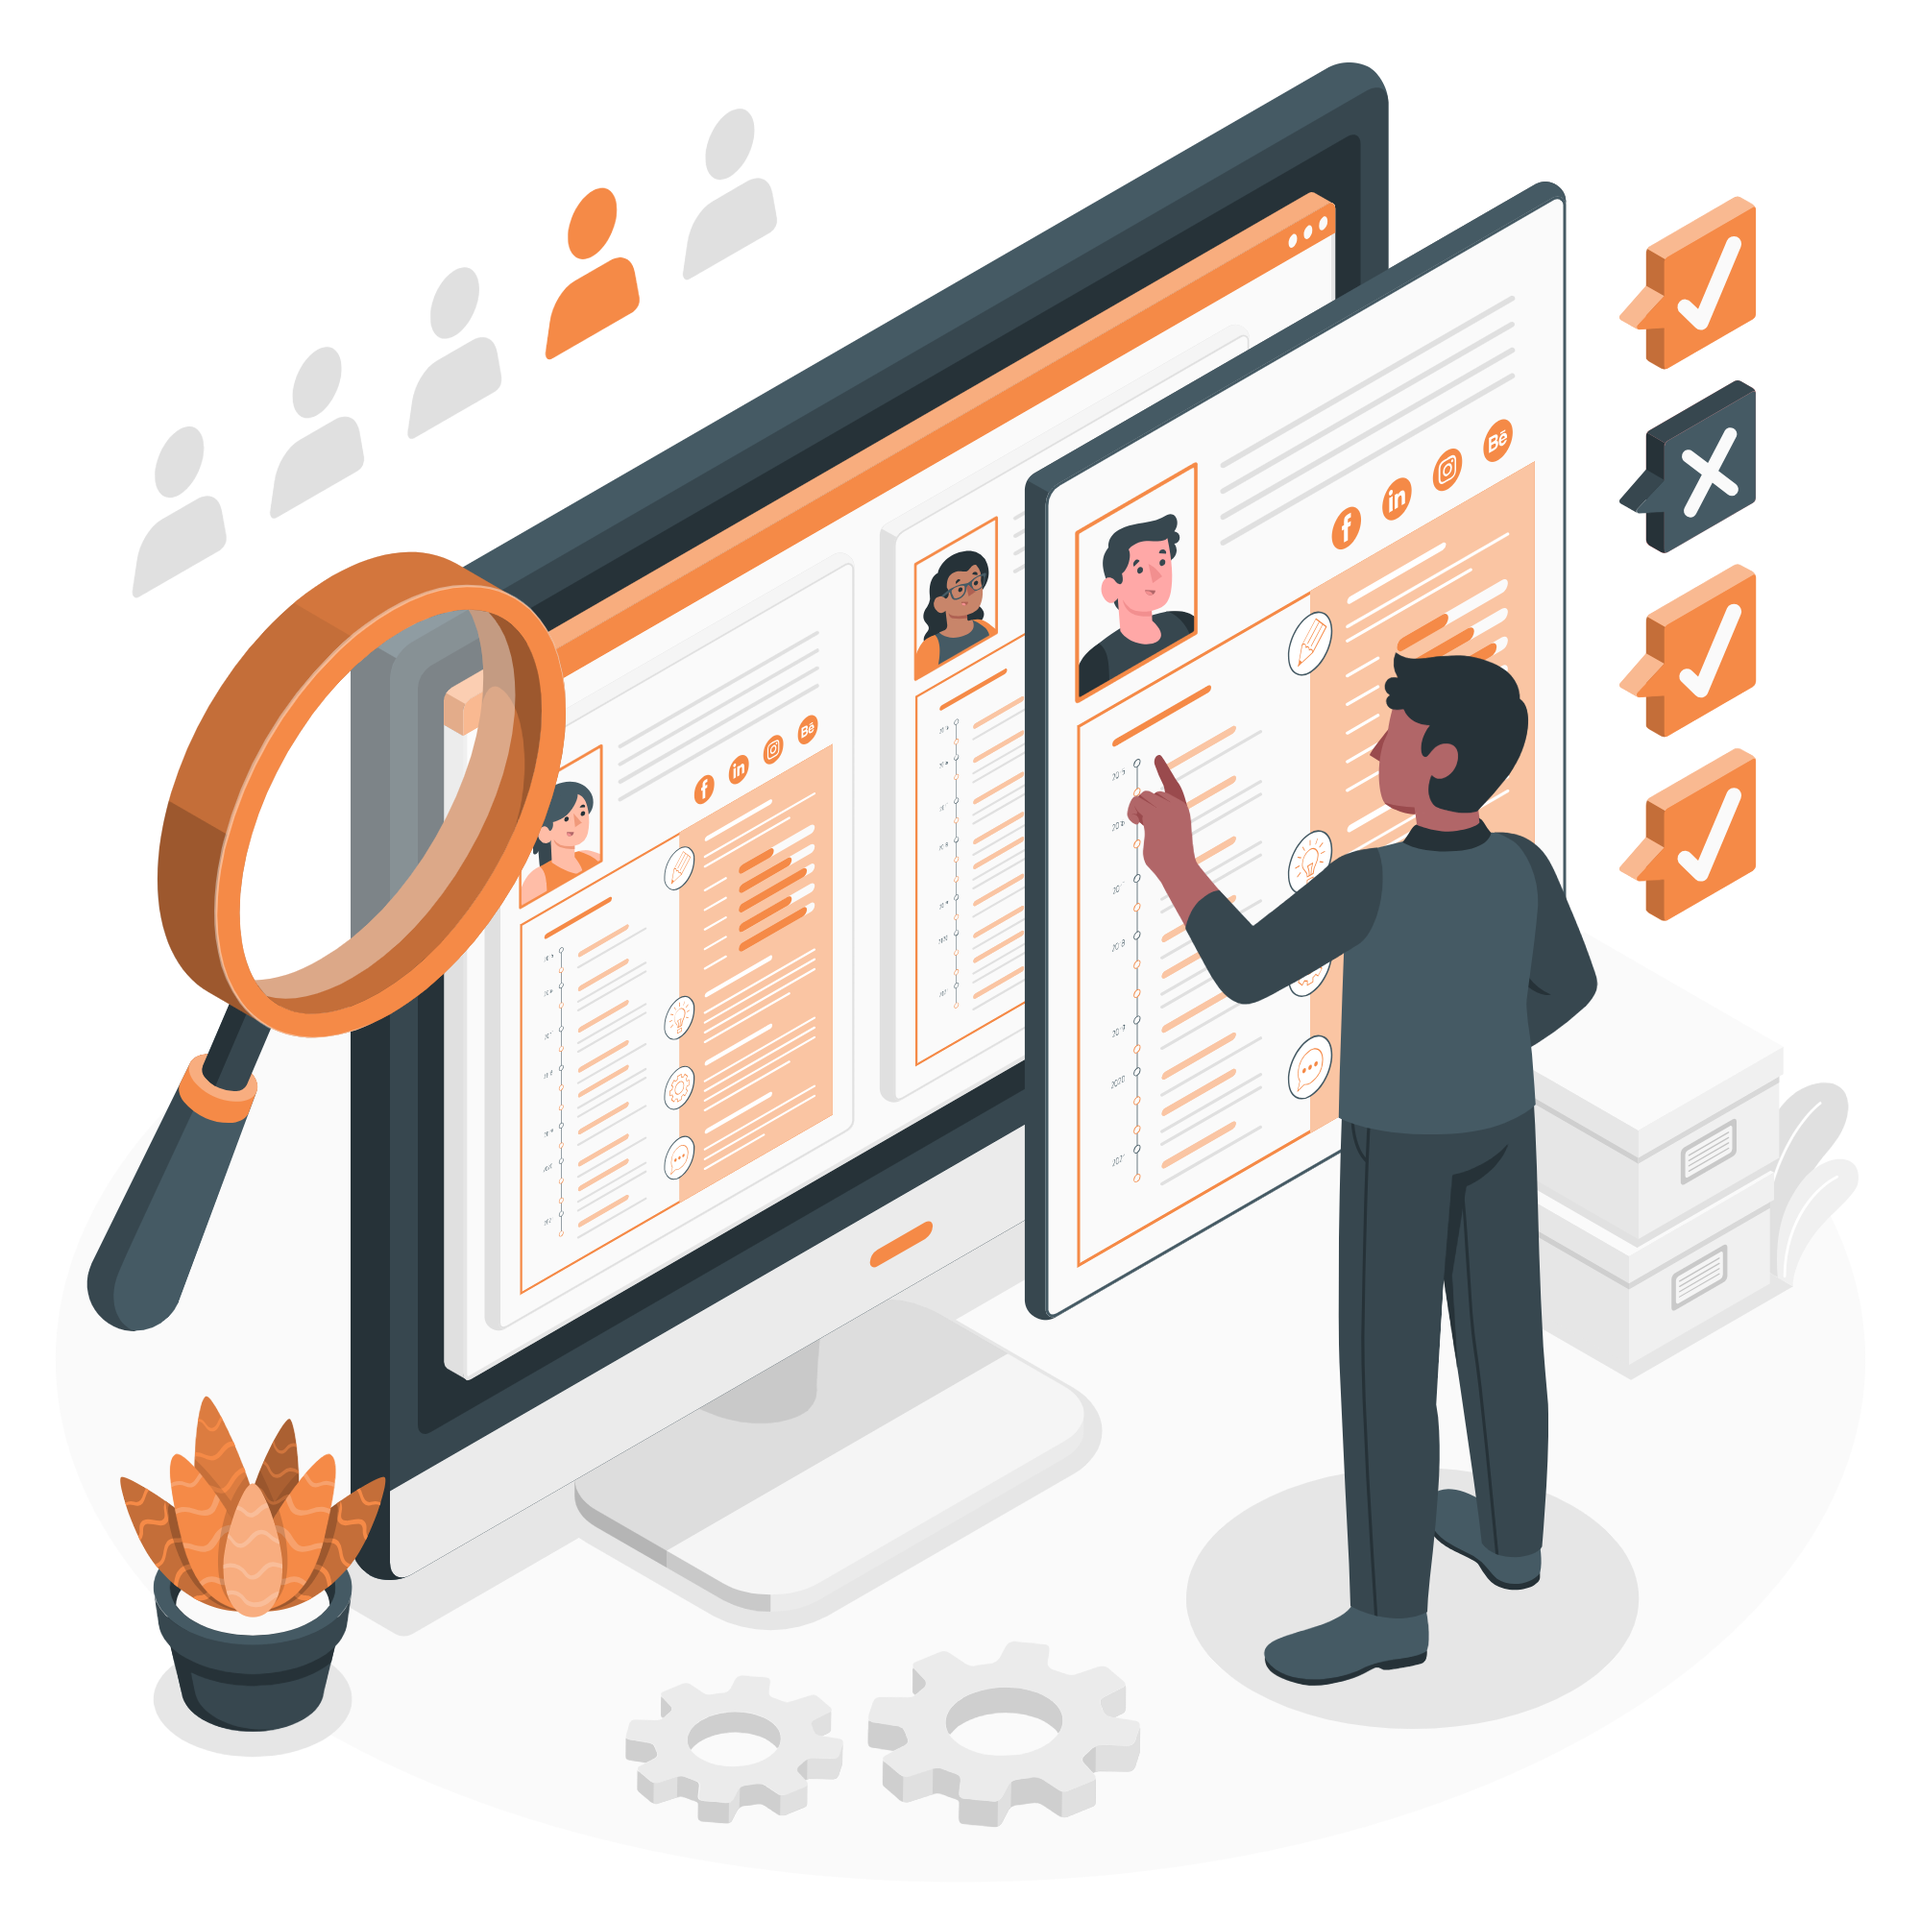
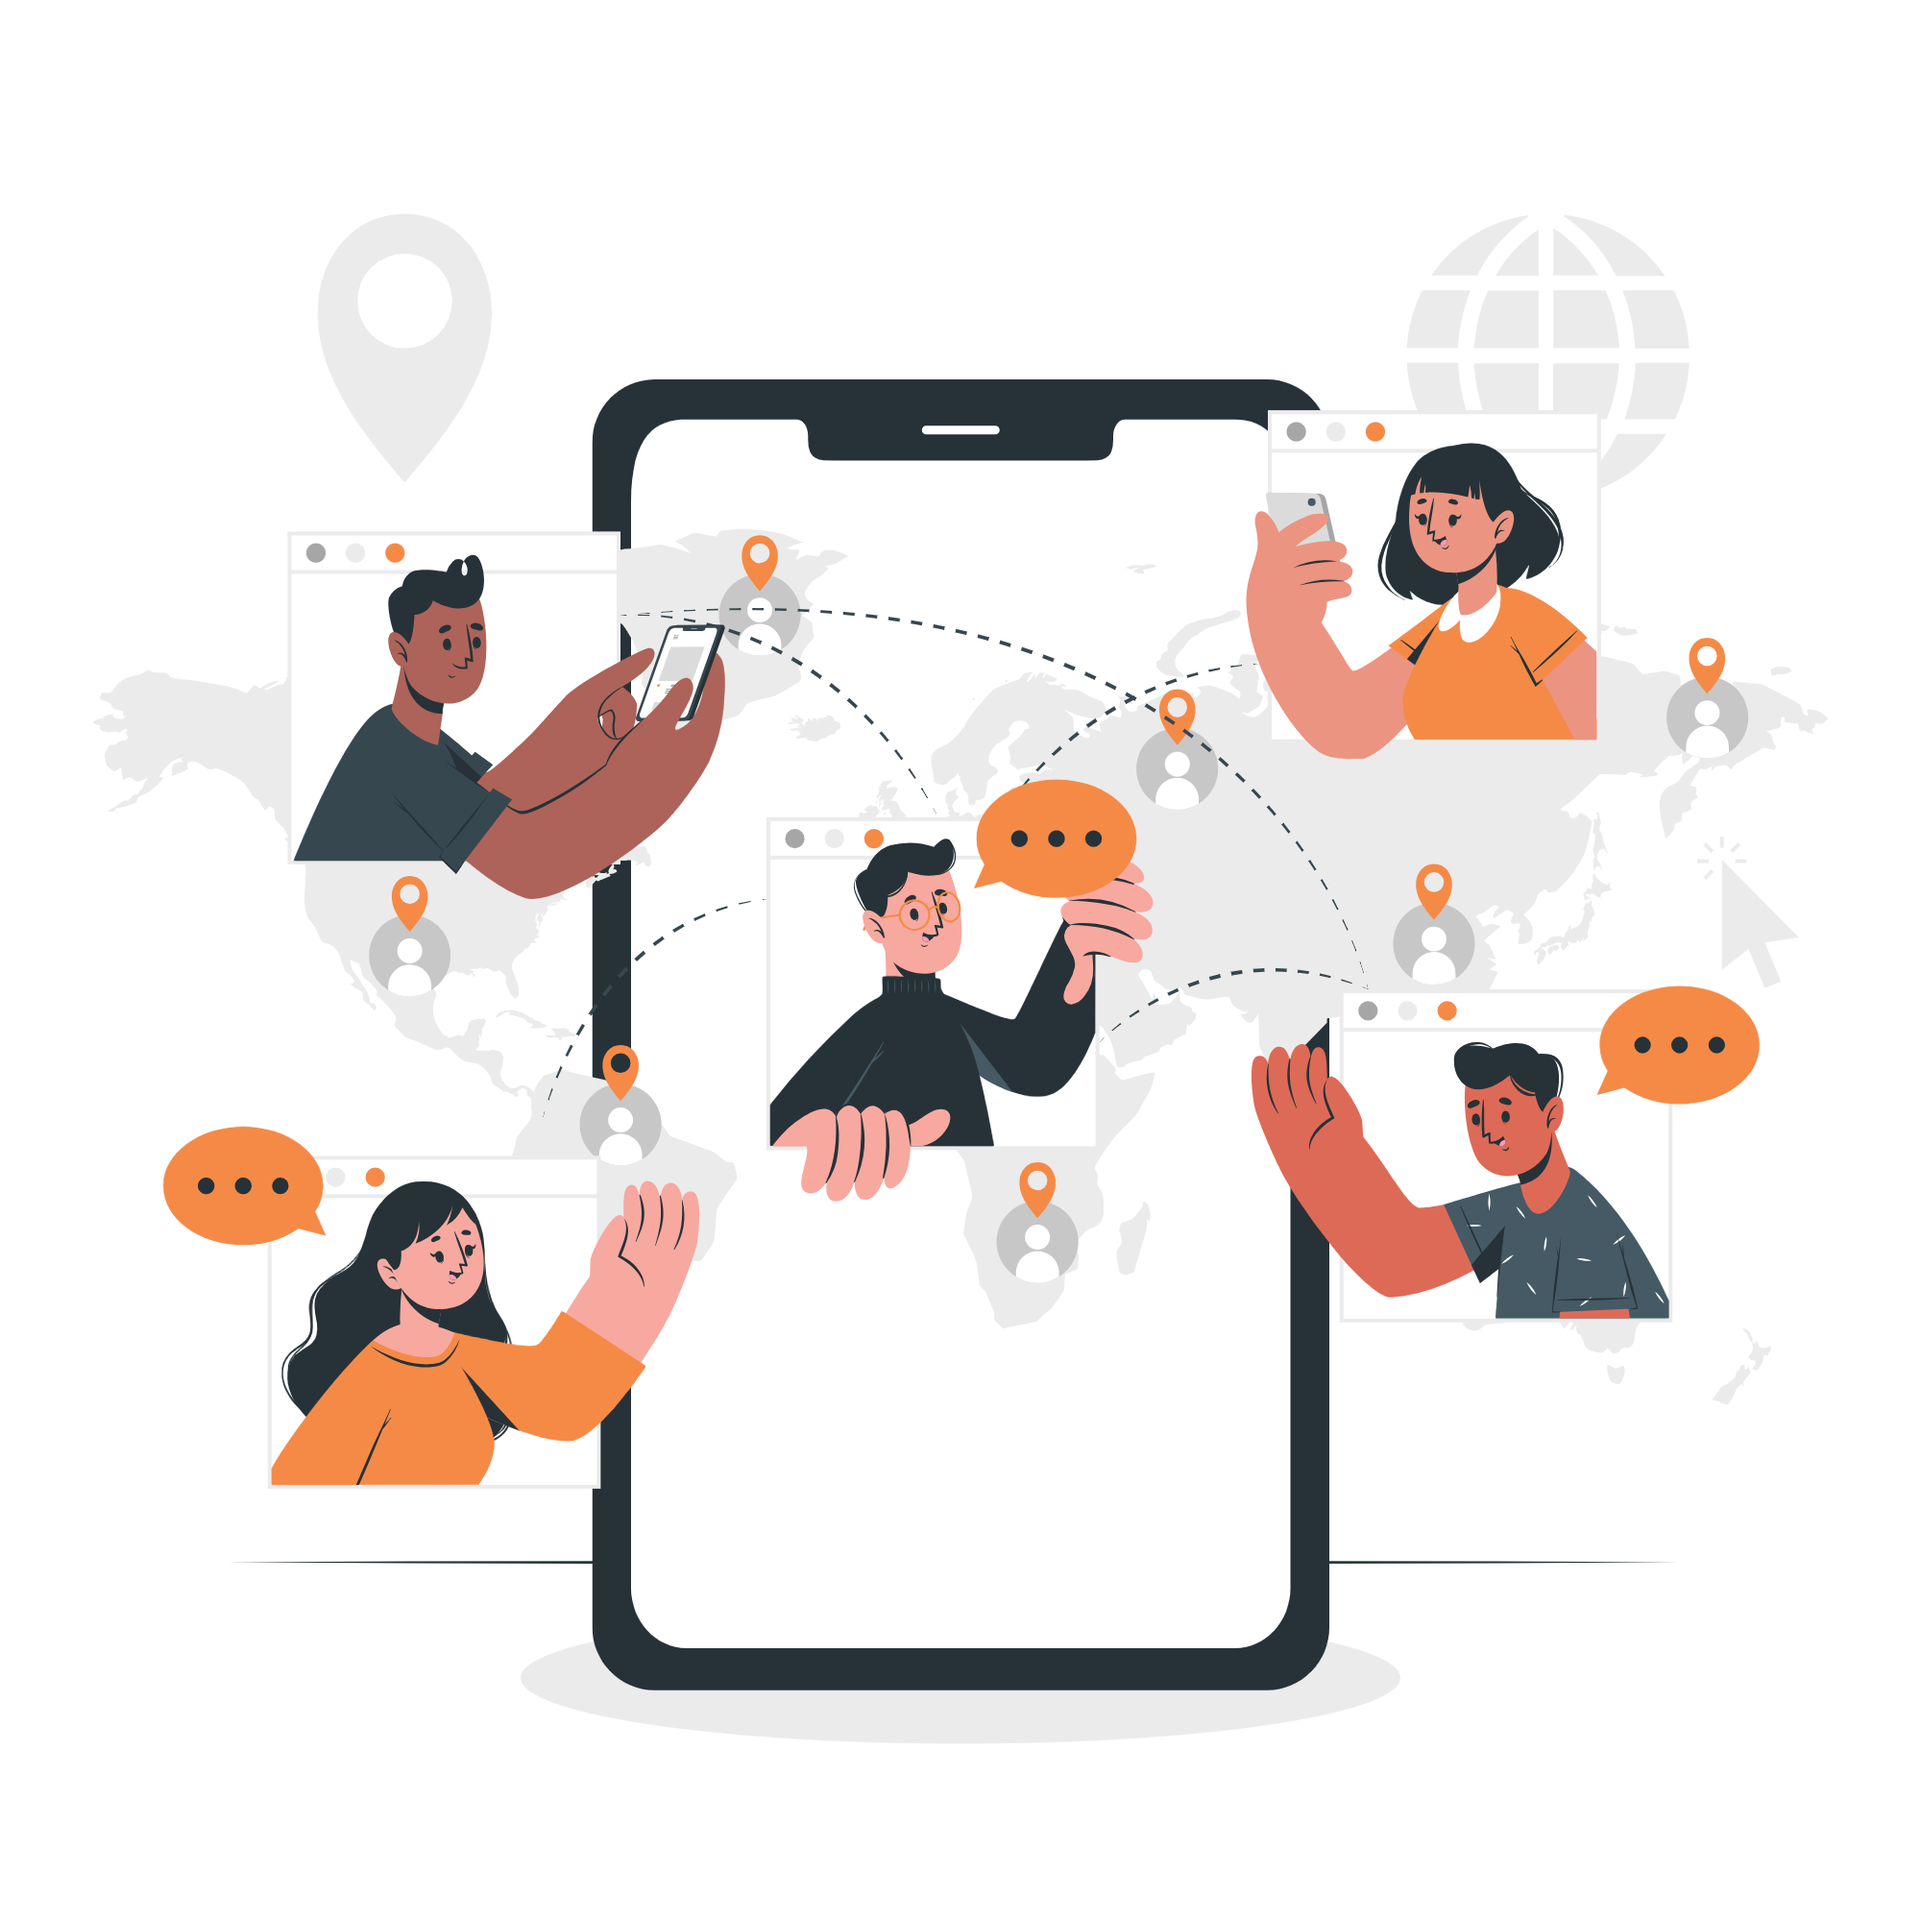
added modificaions

diff --git a/src/components/ExploreOurServices/ExploreOurServices.tsx b/src/components/ExploreOurServices/ExploreOurServices.tsx
@@ -17,7 +17,7 @@ const ExploreOurServices = () => {
         display: "flex",
         flexDirection: { xs: "column", lg: "row" },
         gap: "40px",
-        alignItems: "center",
+        alignItems: "flex-start",
         justifyContent: "center",
         padding: "80px 20px",
         flexWrap: "wrap",
@@ -26,23 +26,24 @@ const ExploreOurServices = () => {
       <Card
         sx={{
           order: { xs: 1, lg: 2 },
-          height: { xs: "250px", lg: "370px" },
           backgroundColor: "transparent",
           boxShadow: "none",
           border: "none",
           borderRadius: 0,
-          width: { lg: "600px" },
+          width: {lg: "calc((510/1200) * 100%)"},
           display: "flex",
           flexDirection: "column",
-          gap: "24px",
+          rowGap: "18px",
+          alignItems: {xs: "center", lg: "flex-start"}
         }}
       >
         <CardContent
           sx={{
             display: "flex",
             flexDirection: "column",
-            gap: "24px",
-            alignItems: "center",
+            justifyContent: "flex-start",
+            rowGap: "18px",
+            alignItems: "flex-start",
             padding: "0",
             margin: { lg: "auto 0 0 0" },
           }}
@@ -56,7 +57,10 @@ const ExploreOurServices = () => {
           <Typography
             variant="body2"
             color="primary.main"
-            sx={{ textAlign: { xs: "center", lg: "left" } }}
+            sx={{ 
+              textAlign: { xs: "center", md: "center", lg: "left" },
+              fontWeight: "400",
+              fontSize: "16.5px" }}
           >
             Explore our services today and experience the joy of a sparkling,
             well-maintained space. 
@@ -80,14 +84,6 @@ const ExploreOurServices = () => {
         </CardActions>
       </Card>
 
-      <Box sx={{
-        display: "flex",
-        flexWrap: "wrap",
-        order: "2",
-        columnGap: "40px",
-        rowGap: "40px",
-        justifyContent: "center"
-      }}>
       {SERVICES.map((service: ServiceItem, index: number) => {
         return (
           <Card
@@ -121,7 +117,7 @@ const ExploreOurServices = () => {
         );
       })}
       </Box>
-    </Box>
+    
   );
 };
 

diff --git a/src/components/Introduction/IntroItem.tsx b/src/components/Introduction/IntroItem.tsx
@@ -1,4 +1,4 @@
-import { Card, CardMedia, Typography } from "@mui/material";
+import { Box, Card, CardMedia, Typography } from "@mui/material";
 import React from "react";
 
 const IntroItem: React.FC<IntroItem> = ({ title, desc, image }) => {
@@ -6,24 +6,30 @@ const IntroItem: React.FC<IntroItem> = ({ title, desc, image }) => {
     <Card
       sx={{
         margin: "0",
-        width: {xs: "100%", md: "calc((370/1200) * 100%)"},
+        width: {xs: "100%", md: "calc((300/1200) * 100%)"},
         padding: "20px",
-        height: "370px",
+        height: "auto",
         borderRadius: "16px",
         display: "flex",
         flexDirection: "row",
         boxShadow: "2px 4px rgba(245, 138, 71, 0.22)",
         backgroundColor: "#bcd2ff",
         flexWrap: "wrap",
+        alignItems: "flex-start"
       }}
     >
-      <CardMedia
-        component="img"
-        alt=""
-        height="220px"
-        image={image}
-        sx={{ objectFit: "contain", mb: "10px"}}
-      />
+      <Box
+       sx={{ 
+        display: "flex",
+        justifyContent: "center",
+        width: "100%"}}>
+        <CardMedia
+          component="img"
+          alt=""
+          image={image}
+          sx={{ objectFit: "contain", maxHeight: "280px"}}
+        />
+      </Box>
       <Typography
         variant="h2"
         align="center"
@@ -31,12 +37,12 @@ const IntroItem: React.FC<IntroItem> = ({ title, desc, image }) => {
           margin: "0 auto",
           fontFamily: "Poppins",
           fontWeight: 600,
-          fontSize: {xs: "18px", md: "16px", lg: "24px"},
+          fontSize: {xs: "18px", md: "16px", lg: "21px"},
           color: "#d2580b",
           lineHeight: 1.25,
           display: "flex",
           alignItems: "center",
-          mb: "15px"
+          mb: "14px"
         }}
       >
         {title}

diff --git a/src/components/WhyCurrante/WhyCurranteItem.tsx b/src/components/WhyCurrante/WhyCurranteItem.tsx
@@ -7,7 +7,7 @@ const WhyCurranteItem: React.FC<WhyCurranteItem> = ({ title, desc, image }) => {
       sx={{
         maxWidth: {
           xs: "100%",
-          md: "37%"
+          md: "40%"
         },
         padding: "20px",
         minHeight: "157px",
@@ -37,7 +37,7 @@ const WhyCurranteItem: React.FC<WhyCurranteItem> = ({ title, desc, image }) => {
             margin: "0 auto 15px",
             fontFamily: "Poppins",
             fontWeight: 600,
-            fontSize: {xs: "18px", md: "16px", lg: "24px"},
+            fontSize: {xs: "18px", md: "16px", lg: "21px"},
             color: "#F58A47",
             lineHeight: 1.25,
           }}
